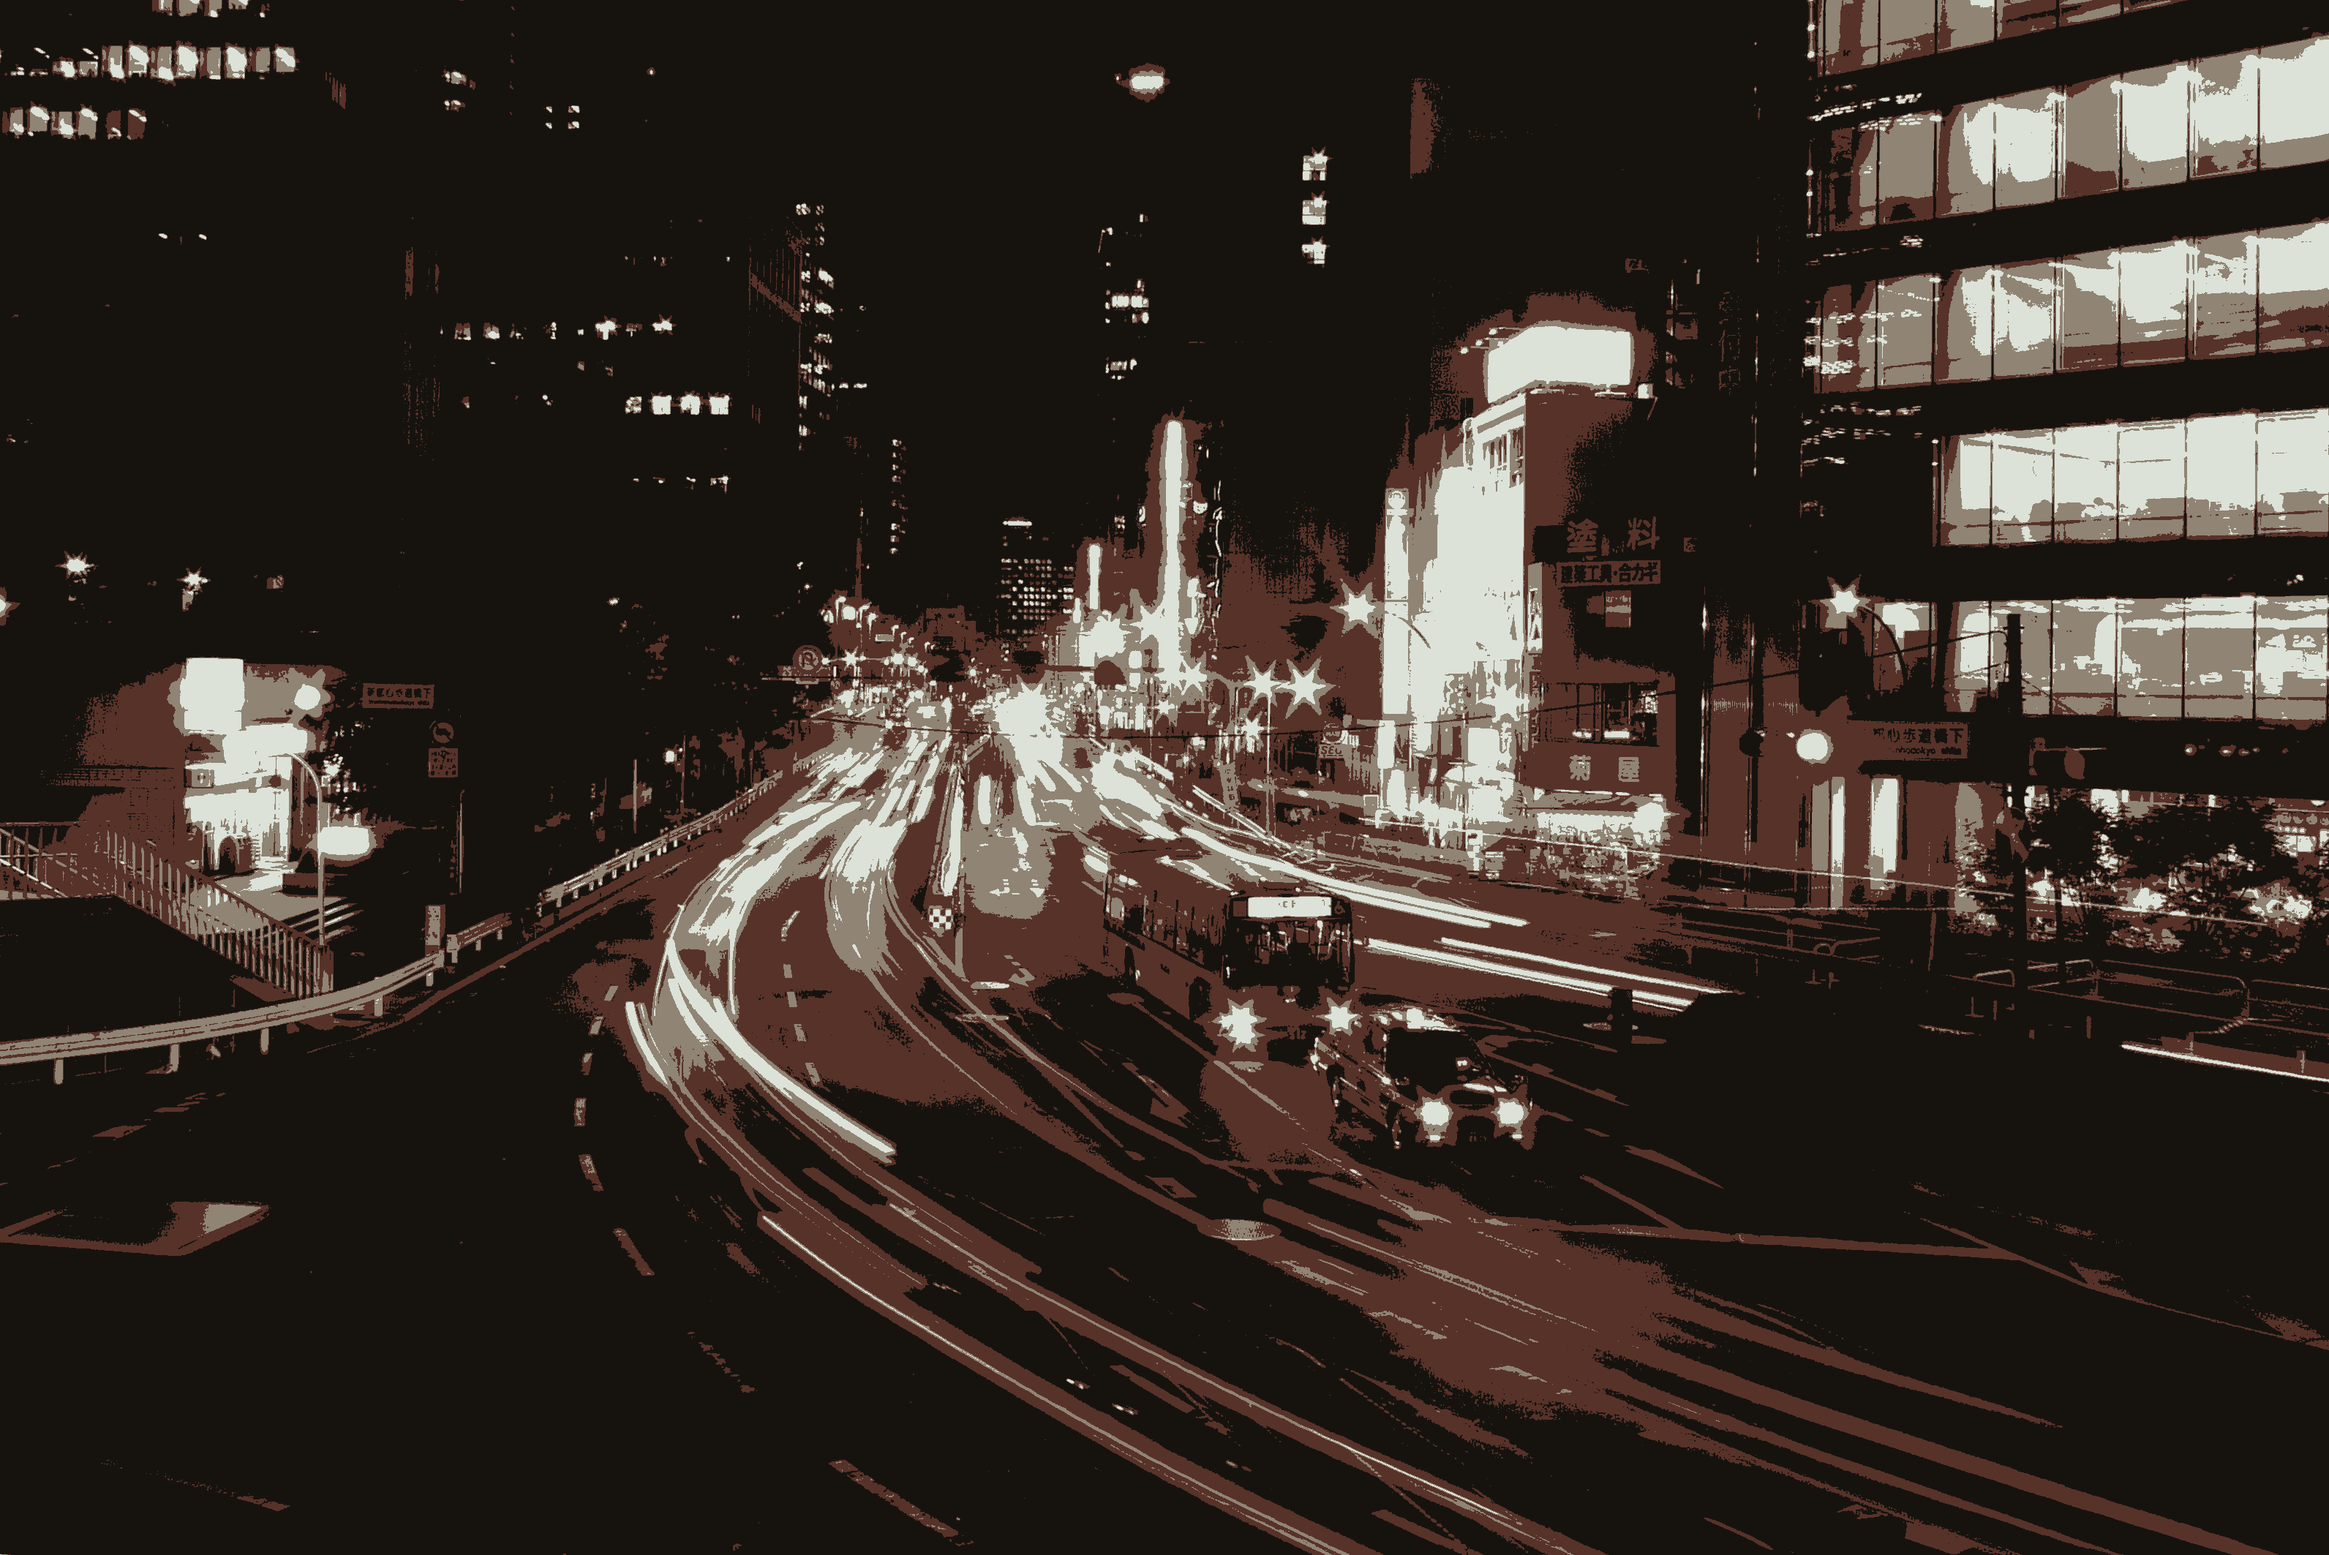
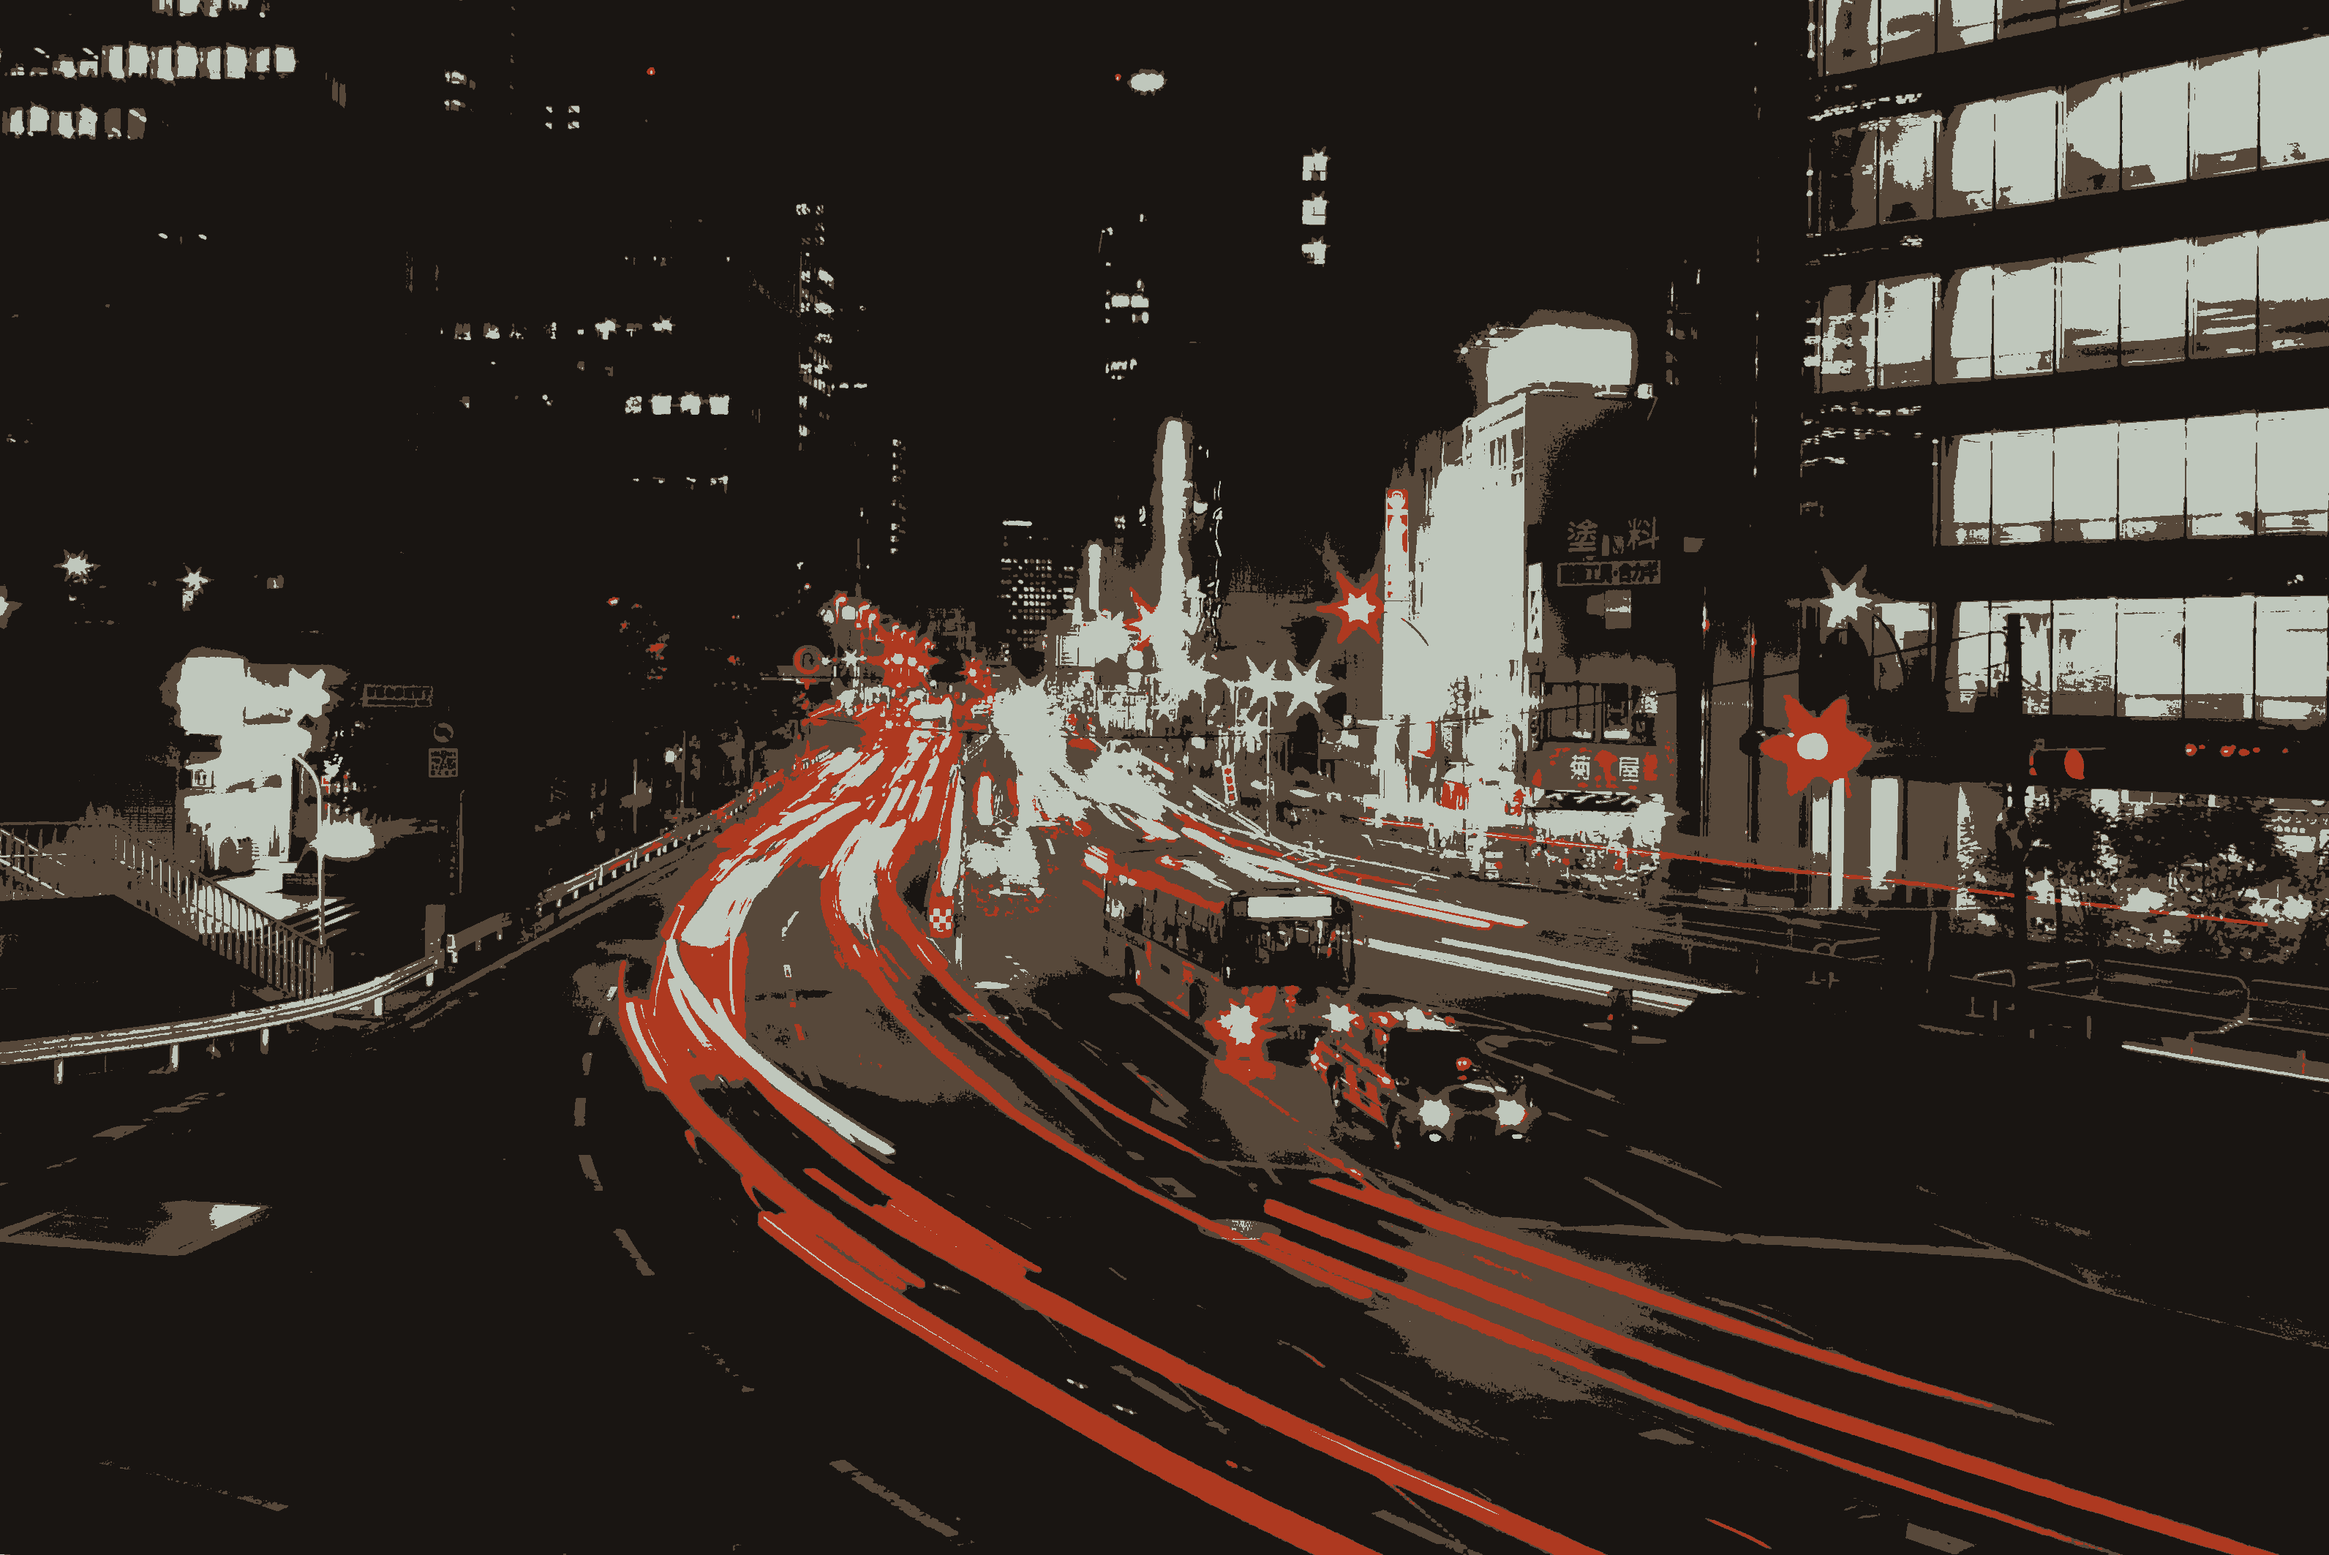
Fix colors from lab result

diff --git a/src/main.rs b/src/main.rs
@@ -23,6 +23,13 @@ impl ColorSpace {
             _ => None,
         }
     }
+
+    fn name(&self) -> &'static str {
+        match self {
+            ColorSpace::Lab => "lab",
+            ColorSpace::Rgb => "rgb",
+        }
+    }
 }
 
 fn main() -> Result<()> {
@@ -85,15 +92,13 @@ fn main() -> Result<()> {
     let image = image::open(input)?.to_rgb8();
     let dimensions = image.dimensions();
     let pixels = match color_space {
-        ColorSpace::Lab => {
-            let lab: Vec<Lab> = Srgb::from_raw_slice(&image.into_raw())
-                .into_iter()
-                .map(|rgb| rgb.into_format::<f32>().into_color())
-                .collect();
-            lab.into_iter()
-                .map(|lab| [lab.l, lab.a, lab.b, 1.0])
-                .collect()
-        }
+        ColorSpace::Lab => Srgb::from_raw_slice(&image.into_raw())
+            .into_iter()
+            .map(|rgb| {
+                let lab = IntoColor::<Lab>::into_color(rgb.into_format::<f32>());
+                [lab.l, lab.a, lab.b, 1.0]
+            })
+            .collect(),
         ColorSpace::Rgb => image.into_raw()[..]
             .chunks_exact(3)
             .map(|rgb| {
@@ -111,19 +116,16 @@ fn main() -> Result<()> {
 
     let result = kmeans(k, &image)?;
     let (width, height) = result.dimensions();
-    let rgb = match color_space {
-        ColorSpace::Lab => {
-            let rgb: Vec<Srgb<u8>> = result.into_raw_pixels()[..]
-                .chunks_exact(4)
-                .map(|lab| {
-                    IntoColor::<Srgb>::into_color(Lab::new(lab[0], lab[1], lab[2])).into_format()
-                })
-                .collect::<Vec<Srgb<u8>>>();
-            rgb.into_iter()
-                .map(|rgba| [rgba.red, rgba.blue, rgba.green])
-                .flatten()
-                .collect::<Vec<u8>>()
-        }
+    let rgb: Vec<u8> = match color_space {
+        ColorSpace::Lab => result.into_raw_pixels()[..]
+            .chunks_exact(4)
+            .map(|lab| {
+                IntoColor::<Srgb>::into_color(Lab::new(lab[0], lab[1], lab[2]))
+                    .into_format()
+                    .into_raw::<[u8; 3]>()
+            })
+            .flatten()
+            .collect(),
         ColorSpace::Rgb => result.into_raw_pixels()[..]
             .chunks_exact(4)
             .map(|rgba| {
@@ -138,7 +140,7 @@ fn main() -> Result<()> {
     };
 
     if let Some(output_image) = ImageBuffer::<Rgb<u8>, _>::from_raw(width, height, rgb) {
-        let output_file = output_file(None, input, extension, k)?;
+        let output_file = output_file(None, input, extension, k, &color_space)?;
         output_image.save(output_file)?;
     }
 
@@ -150,6 +152,7 @@ fn output_file(
     input: &str,
     extension: Option<&str>,
     k: u32,
+    color_space: &ColorSpace,
 ) -> Result<PathBuf> {
     if let Some(output) = output {
         Ok(Path::new(output).to_owned())
@@ -171,7 +174,10 @@ fn output_file(
         let now = SystemTime::now().duration_since(UNIX_EPOCH)?;
         let millis = format!("{}{:03}", now.as_secs(), now.subsec_millis());
 
-        let filename = format!("{stem}-{millis}-{k}.{extension}");
+        let filename = format!(
+            "{stem}-{cs}-k{k}-{millis}.{extension}",
+            cs = color_space.name()
+        );
         let output_path = if let Some(parent) = parent {
             parent.join(filename)
         } else {
